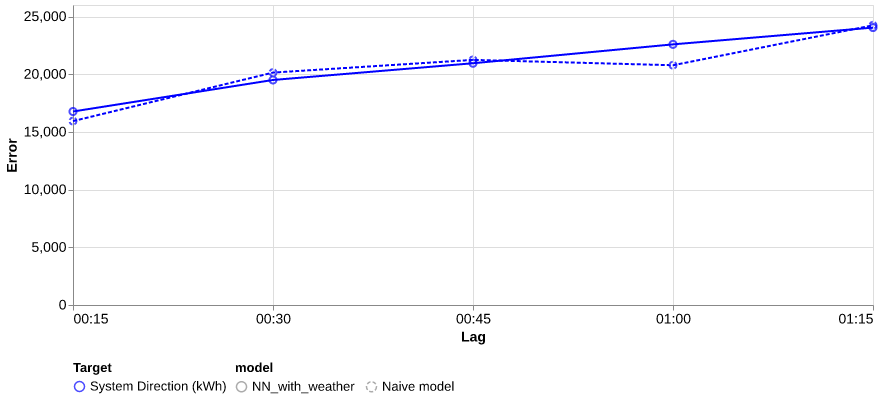
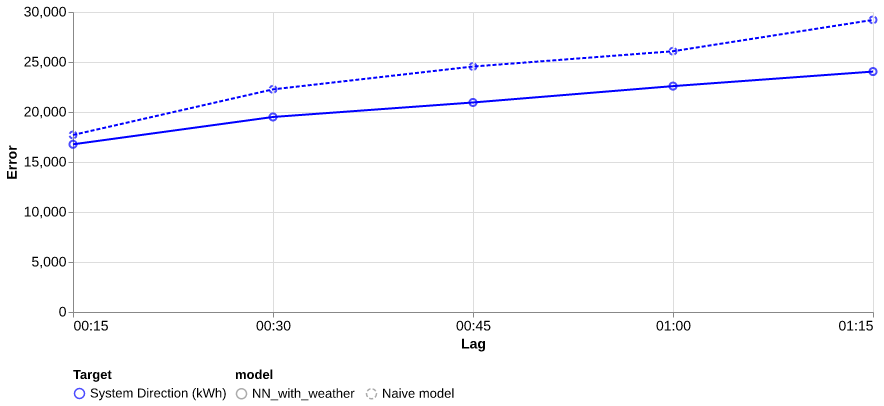
fixed naive model test interval

diff --git a/naive_model.py b/naive_model.py
@@ -1,7 +1,7 @@
 import polars as pl
 from sklearn.metrics import mean_absolute_error, root_mean_squared_error, r2_score
 import altair as alt
-
+from datetime import datetime
 
 TIMELAGS = range(1, 6)  # in steps (1 step is 15 minutes)
 
@@ -51,10 +51,14 @@ joined_df = pl.read_parquet("data/joined_df.parquet")
 results = []
 for lag in TIMELAGS:
     for target in TARGET_COLS:
-        df = joined_df.select(pl.col(target).alias("y_true"), pl.col(target).shift(lag).alias("y_pred")).slice(lag)
-
+        df = (
+            joined_df.filter(pl.col("UTCdate").dt.replace_time_zone(None) >= datetime(2024, 1, 1))
+            .select(pl.col(target).alias("y_true"), pl.col(target).shift(lag).alias("y_pred"))
+            .slice(lag)
+        )
         y_true = df["y_true"]
         y_pred = df["y_pred"]
+        print("shape", df.height)
 
         results.append(
             {
